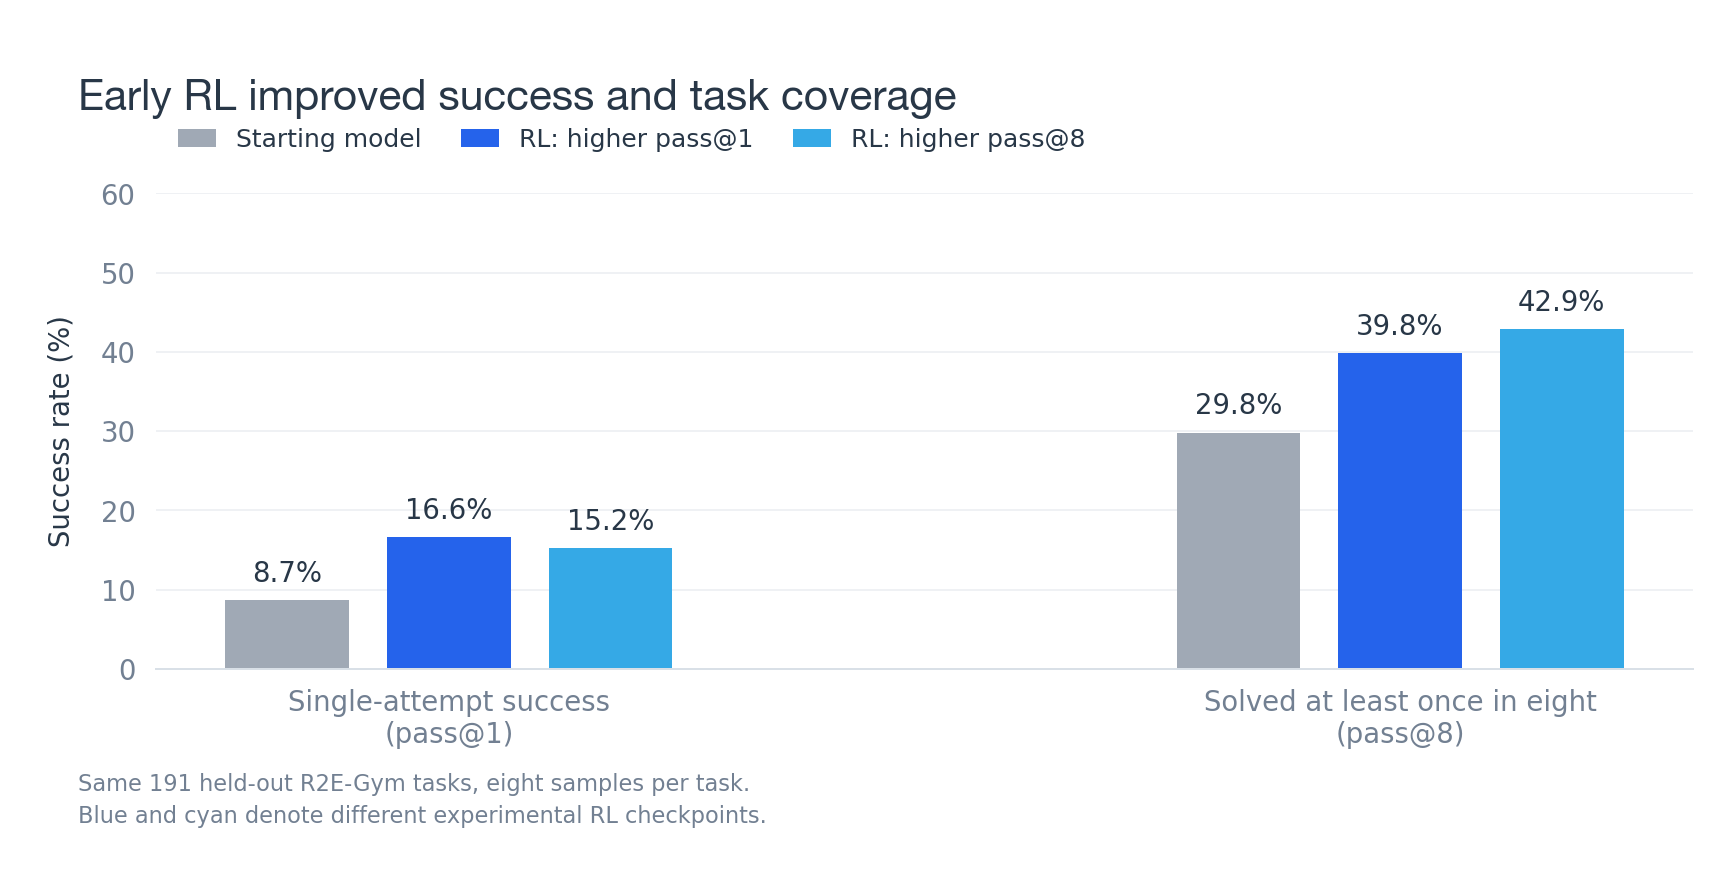
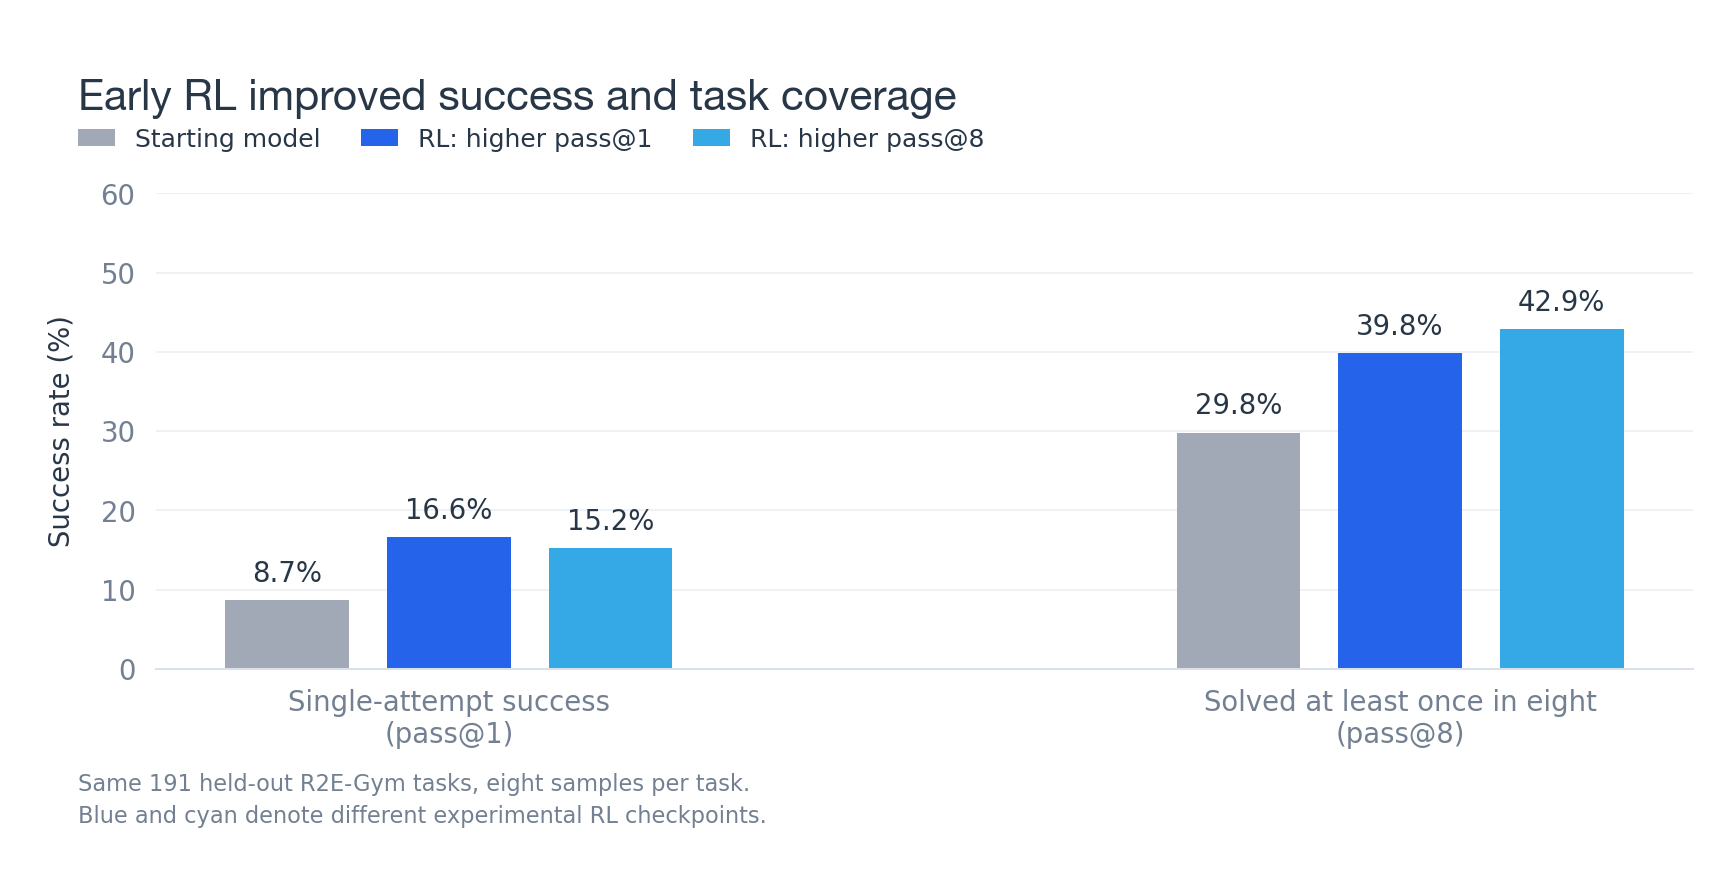
Align early RL legend with title left edge

Changed region(s): [[0.0312, 0.1227, 0.625, 0.1841]]

diff --git a/scripts/render_snowball_results.py b/scripts/render_snowball_results.py
@@ -150,8 +150,9 @@ def early_rl():
                        "Solved at least once in eight\n(pass@8)"])
     ax.tick_params(axis="both", length=0, pad=8, labelsize=11)
     ax.grid(axis="y", color=GRID, linewidth=.7)
-    ax.legend(loc="lower left", bbox_to_anchor=(0, 1.04), ncol=3,
-              frameon=False, fontsize=10, handlelength=1.5, columnspacing=1.6)
+    fig.legend(*ax.get_legend_handles_labels(), loc="upper left",
+               bbox_to_anchor=(.045, .855), borderaxespad=0, borderpad=0, ncol=3,
+               frameon=False, fontsize=10, handlelength=1.5, columnspacing=1.6)
     fig.text(.045, .065, "Same 191 held-out R2E-Gym tasks, eight samples per task.\n"
              "Blue and cyan denote different experimental RL checkpoints.",
              fontsize=9, color=MUTED, linespacing=1.5)

diff --git a/_posts/2026-10-21-turning-snowball-into-a-coding-agent.md b/_posts/2026-10-21-turning-snowball-into-a-coding-agent.md
@@ -103,7 +103,7 @@ In the first held-out evaluation, RL nearly doubled pass@1 from 8.7% to 16.6%. B
 
 
 <figure class="research-figure">
-<a href="{{ '/assets/img/snowball/early-rl-labeled.png?v=aligned-type' | relative_url }}"><img src="{{ '/assets/img/snowball/early-rl-labeled.png?v=aligned-type' | relative_url }}" alt="Starting model and two RL checkpoints, labeled by their single-attempt success and task coverage." width="1728" height="880" loading="lazy"></a>
+<a href="{{ '/assets/img/snowball/early-rl-labeled.png?v=left-legend' | relative_url }}"><img src="{{ '/assets/img/snowball/early-rl-labeled.png?v=left-legend' | relative_url }}" alt="Starting model and two RL checkpoints, labeled by their single-attempt success and task coverage." width="1728" height="880" loading="lazy"></a>
 <figcaption>The same 191 held-out tasks, eight attempts each. Both RL recipes also solved tasks the base missed in all eight attempts; this does not mean the base could never solve them.</figcaption>
 </figure>
 
